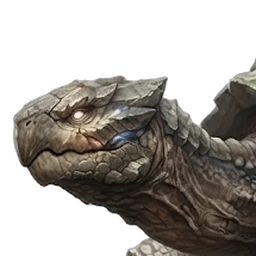
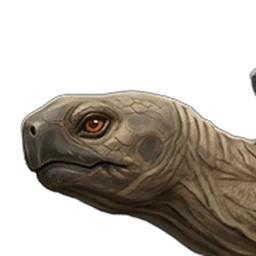
Stone-Shell Tortoise: redesigned picture, roar picture, animated from its own videos with its own voice
Ox-sized tortoise with a slate stone shell, ochre seams, moss and three stone knobs (Nano Banana
2.1). Both videos clean. Its legs give way in four video frames: every one is taken, so it slams
down instead of jumping; its snap is taken on until its neck is fully back.

Claude-Session: https://claude.ai/code/session_018PQaDJLhfzPHgGb82XHzjM

diff --git a/scripts/make_beast_sheets.py b/scripts/make_beast_sheets.py
@@ -132,6 +132,16 @@ CLIPS = {
                          "tail_disc": ("death",), "tail_fixed": ("death",), "tail_x_until": {"death": 5.75},
                          "ease_in": {"attack": 2, "hit": 3, "death": 4}, "settle": {"attack": 3},
                          "ease_out": {"hit": 3}, "place_as": {"attack": "idle", "hit": "idle", "death": "idle"}},
+    # Nov 27 redesign: both videos clean (no remakes): its idle before its neck-stretching snap (taken on until its neck
+    # is fully back, so it settles with no double body), its flinch (head pulled back toward its shell) and its
+    # collapse onto its shell from the hit video, easing in from the idle. Its legs give way in four video frames:
+    # every one of them is taken (not every 2nd), so it slams down over four frames instead of jumping
+    "stone_shell_tortoise": {"attack": (3.75, 7.45), "hit": (2.05, 3.7),
+                             "death": ((5.45, 5.875), (5.875, 5.917), (5.917, 5.958), (5.958, 6.0), (6.0, 7.0)),
+                             "idle_span": (16, 28), "breathe": 0.035, "idle_from": 2.6, "idle_until": 3.8,
+                             "attack_ms": 3000,
+                             "ease_in": {"attack": 2, "hit": 3, "death": 4}, "settle": {"attack": 3},
+                             "ease_out": {"hit": 3}, "place_as": {"attack": "idle", "hit": "idle", "death": "idle"}},
     "old_black_bear": {"attack": (2.3, 5.1), "hit": (2.05, 3.45), "death": (3.9, 6.4), "idle_span": (30, 46),
                        "idle_from": 5.8, "attack_ms": 2600, "bite": 27, "impact": 10, "white": ("death",)},
                        # its attack from the remade video with headroom (Nov 26): the first one's head left the video

diff --git a/tests/test_web_explore.py b/tests/test_web_explore.py
@@ -1305,6 +1305,20 @@ def test_the_flame_maned_lion_is_animated_from_its_own_videos_with_its_own_voice
     assert json.load(open(os.path.join("art", "beasts", "heads.json")))["flame_maned_lion@roar"][:2] == [0.1, 0.37]
     assert explore_play.beast_body("Flame-Maned Lion") == "flame_maned_lion"
 
+def test_the_stone_shell_tortoise_is_animated_from_its_own_videos_with_its_own_voice():
+    """SHOAIB's redesigned Stone-Shell Tortoise (Nov 27, Grandmaster): both videos clean; its legs give way in four video frames, all of them taken so it slams down instead of jumping."""
+    import json
+    from web import beast_sheets, death, explore_play
+    d = beast_sheets.sheets("stone_shell_tortoise")
+    assert d and set(d["sheets"]) == {"idle", "attack", "hit", "death"} and d["sheets"]["idle"]["smooth"]
+    assert death.view({"kind": "beast", "name": "Stone-Shell Tortoise", "slug": "stone_shell_tortoise"})["kind"] == "sheet"
+    assert os.path.exists(os.path.join("art", "beasts", "roar", "stone_shell_tortoise.png"))
+    keys = json.load(open(os.path.join("art", "fx", "sounds", "sounds.json")))
+    for sound in ("hit", "lunge", "death", "roar", "roar:big"):
+        assert f"{sound}@stone_shell_tortoise" in keys
+    assert json.load(open(os.path.join("art", "beasts", "heads.json")))["stone_shell_tortoise@roar"][:2] == [0.06, 0.47]
+    assert explore_play.beast_body("Stone-Shell Tortoise") == "stone_shell_tortoise"
+
 def test_a_move_ending_in_another_pose_slides_and_dissolves_back_into_the_idle():
     """`make_beast_sheets.settle`: the last frames slide until the nose meets the idle's, then dissolve into it."""
     from PIL import Image

diff --git a/scripts/make_roar_fx.py b/scripts/make_roar_fx.py
@@ -83,7 +83,7 @@ MOUTHS = {
     "sky_lynx": (0.06, 0.37),
     "spear_beak_crane": (0.1, 0.12),
     "steel_horn_bull": (0.1, 0.5),
-    "stone_shell_tortoise": (0.03, 0.42),
+    "stone_shell_tortoise": (0.02, 0.47),
     "storm_eagle": (0.04, 0.37),
     "stray_dog_pack": (0.05, 0.36),
     "taotie_the_devourer": (0.3, 0.2),
@@ -154,7 +154,7 @@ ROAR_MOUTHS = {
     "sky_lynx": (0.06, 0.34),
     "spear_beak_crane": (0.1, 0.41),
     "steel_horn_bull": (0.12, 0.5),
-    "stone_shell_tortoise": (0.07, 0.48),
+    "stone_shell_tortoise": (0.06, 0.47),
     "storm_eagle": (0.08, 0.33),
     "stray_dog_pack": (0.06, 0.36),
     "thornback_lizard": (0.05, 0.4),

diff --git a/art/beasts/README.md b/art/beasts/README.md
@@ -60,5 +60,5 @@ dark-green scorpion with its tail curled over its back; its videos kept the pict
 sparkle, so both are dropped, and its strike is taken without the green slash arc the video drew. The **Poison Toad** (Martial Expert) is a huge warty
 olive toad with bright toxic-green spots, its jolt's white impact lines wiped from its video. The **Silver Monkey** (Martial Expert) is an agile
 silver-furred monkey with a short curled tail; its attack video was remade (the first leapt off and turned round), and
-the tail Veo grew long in its hit and death video is cut back to a short stub. The **Steel-Horn Bull** (Elite) is a huge dark-brown bull with thick steel horns and an iron nose ring, drawn facing left (no longer mirrored; Nano Banana 2.1); both its videos were clean. The **Golden-Eyed Ape King**, the Martial Expert Beast King, is a colossal charcoal-and-rust great ape with a gold zigzag streak down its back and no tail; its picture was mirrored to face left before its videos (Nano Banana 2.1), and the few frames with dust at its fist slam are dropped. The **Ironbark Bear** (Martial Master) is a tawny bear armoured in red-brown ironwood bark with moss and jade-green stones, drawn facing left (no longer mirrored; Nano Banana 2.1); its swipe video was made from the uncleaned picture, so the sparkle Veo kept on its rump is cut away. The **Frost Wolf** (Martial Master) is a stocky pale silver-blue tundra wolf with a huge icy-tipped mane, a blue diamond on its brow and a short tucked tail (Nano Banana 2.1); it is pale, so its video effects are left out by choosing frames, never wiped: its bite stops just before the ice shards the video drew. The **Thunder Hawk** (Elite) is a bulky slate blue-grey hawk with a gold-tipped crest and gold zigzag stripes on its wings; it now stands and fights on its feet with its wings folded (no longer diving; no stone underfoot; Nano Banana 2.1). Its first attack and hit spread its wings off the video, so they come from one remade video; its fall from the first. The **Ember Lizard** (Martial Master) is a lean, long-legged runner, glossy black with coal-orange bands and a flame-orange neck frill (Nano Banana 2.1; the small flame wisp Gemini drew over its head painted out). Veo grew its short tail long in every video, so each move is taken before the tail grows. The **Frost Python** (Elite) is a navy-blue python with ice-white diamonds and a frosted spine ridge, coiled low (Nano Banana 2.1; Gemini's sparkle painted onto its coil was un-blended before its videos); both its videos were clean. The **Wind Leopard** (Elite) is a slim, long-legged sand-gold leopard with swirl-shaped spots and black-tufted ears, drawn facing left (no longer mirrored; Nano Banana 2.1); Veo grew its short tail long whenever it moved, so the tail is cut back where it reaches past its back feet. The **Flame-Maned Lion**, the Martial Master Beast King, is a golden lion with a huge crimson-to-gold mane (just colour, not fire) and no tail showing, drawn facing left (no longer mirrored; Nano Banana 2.1; its long thin tail and the "AI" badge painted out of its picture); the tufted tail Veo grew is cut back in every move. The beasts are
+the tail Veo grew long in its hit and death video is cut back to a short stub. The **Steel-Horn Bull** (Elite) is a huge dark-brown bull with thick steel horns and an iron nose ring, drawn facing left (no longer mirrored; Nano Banana 2.1); both its videos were clean. The **Golden-Eyed Ape King**, the Martial Expert Beast King, is a colossal charcoal-and-rust great ape with a gold zigzag streak down its back and no tail; its picture was mirrored to face left before its videos (Nano Banana 2.1), and the few frames with dust at its fist slam are dropped. The **Ironbark Bear** (Martial Master) is a tawny bear armoured in red-brown ironwood bark with moss and jade-green stones, drawn facing left (no longer mirrored; Nano Banana 2.1); its swipe video was made from the uncleaned picture, so the sparkle Veo kept on its rump is cut away. The **Frost Wolf** (Martial Master) is a stocky pale silver-blue tundra wolf with a huge icy-tipped mane, a blue diamond on its brow and a short tucked tail (Nano Banana 2.1); it is pale, so its video effects are left out by choosing frames, never wiped: its bite stops just before the ice shards the video drew. The **Thunder Hawk** (Elite) is a bulky slate blue-grey hawk with a gold-tipped crest and gold zigzag stripes on its wings; it now stands and fights on its feet with its wings folded (no longer diving; no stone underfoot; Nano Banana 2.1). Its first attack and hit spread its wings off the video, so they come from one remade video; its fall from the first. The **Ember Lizard** (Martial Master) is a lean, long-legged runner, glossy black with coal-orange bands and a flame-orange neck frill (Nano Banana 2.1; the small flame wisp Gemini drew over its head painted out). Veo grew its short tail long in every video, so each move is taken before the tail grows. The **Frost Python** (Elite) is a navy-blue python with ice-white diamonds and a frosted spine ridge, coiled low (Nano Banana 2.1; Gemini's sparkle painted onto its coil was un-blended before its videos); both its videos were clean. The **Wind Leopard** (Elite) is a slim, long-legged sand-gold leopard with swirl-shaped spots and black-tufted ears, drawn facing left (no longer mirrored; Nano Banana 2.1); Veo grew its short tail long whenever it moved, so the tail is cut back where it reaches past its back feet. The **Flame-Maned Lion**, the Martial Master Beast King, is a golden lion with a huge crimson-to-gold mane (just colour, not fire) and no tail showing, drawn facing left (no longer mirrored; Nano Banana 2.1; its long thin tail and the "AI" badge painted out of its picture); the tufted tail Veo grew is cut back in every move. The **Stone-Shell Tortoise** (Grandmaster) is an ox-sized tortoise with a slate stone shell, ochre seams, moss and three stone knobs (Nano Banana 2.1); both its videos were clean. The beasts are
 being redone one at a time in roster order the same way.

diff --git a/docs/web.md b/docs/web.md
@@ -581,6 +581,7 @@ What is recorded now (23 names, 22 files, about 220 KB, all from SHOAIB's videos
 | The Frost Python's hissing strike, its hiss when struck, its sinking slump, its hiss and big hiss (`@frost_python`) | its own idle + attack and hit + death videos (Nov 27) |
 | The Wind Leopard's snarling bite, its yowl when struck, its dying growl and fall, its snarl and big snarl (`@wind_leopard`) | its own idle + attack and hit + death videos (Nov 27) |
 | The Flame-Maned Lion's roaring bite, its grunt when struck, its dying groan and fall, its roar and big roar (`@flame_maned_lion`) | its own idle + attack and hit + death videos (Nov 27) |
+| The Stone-Shell Tortoise's hissing snap, its hiss when struck, its slam onto its shell, its hiss and big hiss (`@stone_shell_tortoise`) | its own idle + attack and hit + death videos (Nov 27) |
 | A roar, and a big roar, for wolf-, cat- and ape-bodied beasts | the quadruped roar video |
 
 **His own sounds (Nov 24).** The new male's videos carry sound too, and his moves play it: his Strike's swing, his
@@ -1136,7 +1137,7 @@ its beasts in `DEATH_CATEGORY`. To give another four-legged beast the movement, 
 ## Animated beasts
 
 A beast can be animated from its videos (SHOAIB's, Gemini or Flow: idle, attack, hit, death; so far the **Grey Wolf**
-and the redesigned **Wild Boar**, **Field Viper**, **Stray Dog Pack**, **Wild Ox**, **Old Black Bear**, **Iron-Hide Boar**, **Red Fox**, the first bird, the **Wind-Feather Falcon**, the **Shadow Wolf**, the **Horned Stag**, the **Mountain Tiger**, the **Rock Python**, the **Spear-Beak Crane**, the **Thornback Lizard**, the **Bloodfang Wolf**, the **Armored Boar Chief**, the **White-Browed Tiger King**, the **Venom Scorpion**, the **Poison Toad**, the **Silver Monkey**, the **Steel-Horn Bull**, the **Golden-Eyed Ape King**, the **Ironbark Bear**, the **Frost Wolf**, the **Thunder Hawk**, the **Ember Lizard**, the **Frost Python**, the **Wind Leopard** and the **Flame-Maned Lion**). One video can hold two of them: the Wild Boar's idle comes from one video, its hit
+and the redesigned **Wild Boar**, **Field Viper**, **Stray Dog Pack**, **Wild Ox**, **Old Black Bear**, **Iron-Hide Boar**, **Red Fox**, the first bird, the **Wind-Feather Falcon**, the **Shadow Wolf**, the **Horned Stag**, the **Mountain Tiger**, the **Rock Python**, the **Spear-Beak Crane**, the **Thornback Lizard**, the **Bloodfang Wolf**, the **Armored Boar Chief**, the **White-Browed Tiger King**, the **Venom Scorpion**, the **Poison Toad**, the **Silver Monkey**, the **Steel-Horn Bull**, the **Golden-Eyed Ape King**, the **Ironbark Bear**, the **Frost Wolf**, the **Thunder Hawk**, the **Ember Lizard**, the **Frost Python**, the **Wind Leopard**, the **Flame-Maned Lion** and the **Stone-Shell Tortoise**). One video can hold two of them: the Wild Boar's idle comes from one video, its hit
 and attack from a second, its death from a third (`CLIPS` gives the seconds of each).
 **The move panel never changes height** (fight.js `holdInfo`): it is held at the height of its tallest text (every
 move's and technique's, tried once when the page comes in, and again when the window changes size). Guard's and
@@ -1195,6 +1196,9 @@ so `trim_tail` took a back leg for it); its flinch and fall come from its hit vi
 same picture, the camera still), so they don't change size at their start.
 **The Flame-Maned Lion** (Nov 27): drawn with no tail showing, but Veo grew a long tufted tail in both videos: cut
 past its back feet while it stands; in its fall by that line only until it is down (5.75 s), and by its thinness as it lies.
+**The Stone-Shell Tortoise** (Nov 27): its legs give way in four video frames, so its death is given as several
+short spans (`death`: ((start, end), ...)) that take every one of those frames instead of every second one: it slams
+down over four frames instead of jumping. Its snap is taken on until its neck is fully back, so it settles cleanly.
 **The idle never jumps** (`smooth_idle`; SHOAIB: "it keeps resetting"): its last frame never quite met its first, so
 a short idle plays forward then back, breathing in and out, and a long one (24+ frames) dissolves its last 6 frames
 into its first; and it keeps its place in time when the page is replaced each turn (fight.js sets its

diff --git a/art/beasts/PROMPTS.md b/art/beasts/PROMPTS.md
@@ -206,9 +206,9 @@ File: `art/beasts/flame_maned_lion.png` (Nov 27 redesign, Nano Banana 2.1, facin
 ## Grandmaster
 
 **Stone-Shell Tortoise** · Normal · Earth
-File: `art/beasts/stone_shell_tortoise.png`
+File: `art/beasts/stone_shell_tortoise.png` (Nov 27 redesign, Nano Banana 2.1; animated from its idle + attack and hit + death videos)
 
-> A giant tortoise with a mountain-like stone shell, moss and small rocks on top, with a subtle amber earth elemental aura. Digital painting, premium Chinese xianxia MMORPG creature concept art. Realistic anatomy, detailed shell and scales, dramatic natural rim lighting, painterly brushwork, rich but mature colours. Full body, three-quarter view facing left, dynamic pose. Isolated on a plain transparent background, no ground, no text, no frame, no watermark.
+> A Stone-Shell Tortoise for a Chinese xianxia martial arts game: a giant, heavy land tortoise as big as an ox, its high domed shell made of thick, rough, overlapping slabs of dark slate-grey stone, with thin lines of ochre-yellow running along the cracks between the slabs and patches of short green moss growing in the seams, all solid and part of its shell. Thick, wrinkled, sandy-brown skin covered in small rough scales, four short, very thick, pillar-like legs with blunt dark claws, a heavy blunt head on a short thick neck, a hard dark beak, and calm amber eyes with a faint glow of earth Qi (only the eyes glow). Its signature: a raised ridge of three large, blunt, rounded stone knobs running along the top of its shell, solid and part of the shell. A SHORT, thick tail held low, close to the body. Nothing coming off it: no dust, no loose rocks, no plants hanging off it. Slow and immovable, still a natural animal, not a monster. Strict side view, facing LEFT, standing on all four legs with its head and neck stretched forward out of the shell, all four legs clearly visible, solid and separated, mouth closed. The whole tortoise takes up about 60-65% of the picture's width, placed a little right of centre, with clear empty grey space above it (about a quarter of the picture's height) and on the left, and its feet a little above the bottom edge. Realistic digital painting, premium Chinese xianxia MMORPG creature concept art, detailed stone shell and scales, soft natural rim lighting, painterly brushwork, rich but mature colours. Plain flat even medium-grey background, the same grey from top to bottom, no gradient, no vignette, no light outline around the body, no ground, no shadow, no aura, no text, no watermark. 16:9.
 
 **Lightning Weasel** · Normal · Thunder
 File: `art/beasts/lightning_weasel.png`
